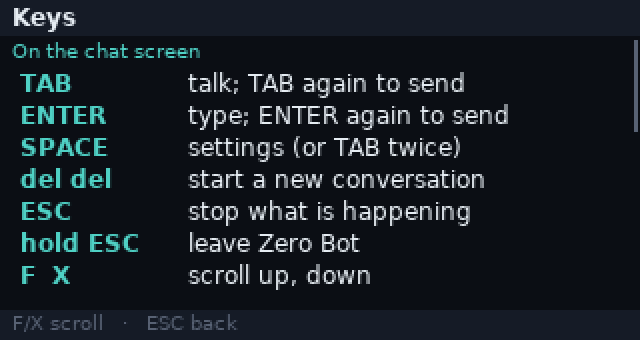
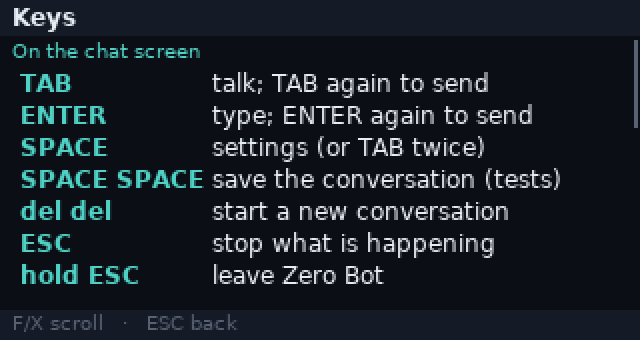
Docs: SPACE SPACE, a "Diagnostics (temporary)" section, pulling saved conversations
README: the keys table lists SPACE twice; the activity log and saved
conversations are described together under "Diagnostics (temporary)" (where
they are, what they hold, that they will be removed); the key guide picture is
the new first page. AGENTS.md section 7: how to pull saved conversations over
ADB and turn one into a test case.

Claude-Session: https://claude.ai/code/session_0145yU8zvCYtBtSJ4SqFXNWu

diff --git a/README.md b/README.md
@@ -47,6 +47,7 @@ needs a [Tavily](https://tavily.com) key.
 |---|---|
 | **TAB** | Start talking. Press **TAB** again when you have finished. |
 | **SPACE** | Open settings (**TAB** twice quickly does the same). **SPACE** or **TAB** closes them again. |
+| **SPACE** twice quickly | Save this conversation, to help diagnose and improve the assistant (see [Diagnostics (temporary)](#diagnostics-temporary)). Because of this, one **SPACE** opens settings a moment later, once no second press has come. |
 | **ENTER** | Start typing a message; **ENTER** again sends it. |
 | **del** twice quickly | Start a new conversation: what was said so far is forgotten. Calendar, timers, reminders and saved memories are kept. |
 | **ESC** | Cancel what is happening: recording, typing, a running request, music. |
@@ -170,7 +171,7 @@ settings from any page.
 |---|---|
 | Assistant | Language, vision, speech-to-text and text-to-speech models; voice; spoken replies on/off; fast replies; the assistant's name |
 | Device | Volume, brightness, microphone gain, time zone, start at power-on, internet via phone, microphone, flip camera image, home city and country, your name, date order, units |
-| Your data | Calendar (edit, add, delete, delete all), reminders and timers (cancel one or all), memory (edit, add, delete, forget everything), TV remote, smart home (devices by room, setting up, the Tapo account), music library, radio stations (what was read from your list, play one to try it), start a new conversation |
+| Your data | Calendar (edit, add, delete, delete all), reminders and timers (cancel one or all), memory (edit, add, delete, forget everything), TV remote, smart home (devices by room, setting up, the Tapo account), music library, radio stations (what was read from your list, play one to try it), saved conversations (how many, delete them all; see [Diagnostics (temporary)](#diagnostics-temporary)), start a new conversation |
 | AI service | Address, API key, web search key, compress audio |
 | About | Status and connection test, the setup guide again, exit to launcher |
 | Keys | Every key and what it does (as **H** shows them) |
@@ -377,16 +378,37 @@ devices, with or without this app.
   only by your user, with what a device needs to be talked to (for Tapo, the account e-mail and a
   SHA-1 of its password). While the assistant may use devices, their names and states are sent
   to your AI service with each request; addresses and account details never are.
-- A log of the tools the assistant used and what they returned is kept in
-  `~/.cache/zero-bot/activity.log` (readable only by your user, about 256 kB at most plus one
-  older file), to help diagnose problems. What you say is not written to it, nor any password or
-  token. Delete it whenever you like.
+- A log of the tools the assistant used, and conversations you choose to save, are kept to help
+  diagnose problems: see [Diagnostics (temporary)](#diagnostics-temporary).
 - What you say, type and photograph is sent to the AI service you configured. Web searches go to
   Tavily; weather, currency and share-price lookups go to Open-Meteo, open.er-api.com and Yahoo
   Finance.
 - Python runs in a [bubblewrap](https://github.com/containers/bubblewrap) sandbox with no
   network, no access to your files, a 20-second limit and a memory cap.
 - Reminders and timers only fire while the app is running.
+
+## Diagnostics (temporary)
+
+Two records exist for now to diagnose problems and improve the assistant. Both will be removed in
+a later version (and their files deleted from the device).
+
+- **The activity log**, `~/.cache/zero-bot/activity.log`: every tool the assistant used, with
+  what it was asked, what came back and how long it took, request by request. It is always kept,
+  readable only by your user, about 256 kB at most plus one older file. What you say is not
+  written to it, nor any password or token. Delete it whenever you like.
+- **Saved conversations**, `~/.local/share/zero-bot/conversations/`: only when you press **SPACE**
+  twice quickly on the chat screen, the conversation so far is saved from its start, as the AI
+  service saw it: what you said (with the time), each reply, and each tool the assistant used,
+  with what it was asked and the start of what came back. One file per save, named by the time
+  (the folder and files readable only by your user); the newest 50 are kept, 4 MB at most. Your
+  API and web-search keys are blanked out of them, and passwords and pairing codes never reach a
+  conversation (they are typed in settings). Your own words are saved as you said them, so save
+  only conversations you are happy to share with whoever looks into a problem.
+  *Settings → Your data → Saved conversations* shows how many there are and deletes them all.
+
+`tests/suite/from_conversation.py FILE` turns a saved conversation into a draft test case for the
+generated request set, for a person to edit (and to replace your own words with others) before
+adding it.
 
 ## Building
 
@@ -430,7 +452,7 @@ A screenless build of the agent, for testing prompts and tools quickly:
 cmake --preset cli && cmake --build --preset cli
 export ZB_API_BASE=https://your-service/v1 ZB_API_KEY=... ZB_SEARCH_KEY=...
 build/cli/zero_bot --ask "what's the weather like in lisbon tomorrow"
-build/cli/zero_bot --chat
+build/cli/zero_bot --chat           # /new starts a new conversation, /save saves it (as SPACE twice does)
 build/cli/zero_bot --tool weather '{"location":"Lisbon"}'
 ```
 
@@ -448,8 +470,8 @@ were called, whether the answers hold up, and how long each took. See the notes 
 the file. `tests/run_unit.sh` builds and runs the tests that need neither a device nor an AI
 service (the smart-home layer, the timers: the timer tool, how timers are stored, the
 countdown and the alarm, the radio: the station file, the radio tool and the check of a stream
-against a pretend radio server, the keys and their guide, and the Fire TV, HomeKit and Hue
-drivers), `tests/tapo_e2e.py` runs the
+against a pretend radio server, the keys and their guide, saved conversations, and the Fire TV,
+HomeKit and Hue drivers), `tests/tapo_e2e.py` runs the
 command-line build against two simulated Tapo plugs, `tests/firetv_e2e.py` and
 `tests/homekit_e2e.py` run those drivers against a simulated TV and a simulated HomeKit bridge,
 `tests/hue_e2e.py` runs the Hue driver and the command-line build against a simulated Hue Bridge, and

diff --git a/AGENTS.md b/AGENTS.md
@@ -75,7 +75,8 @@ State on disk (all under the user's home, mode 0600 where they hold secrets):
 `~/.config/zero-bot/settings.json`, `~/.config/zero-bot/radio.json` (the user's own stations,
 written by hand; the app ships none and never writes it), and in `~/.local/share/zero-bot/`: `calendar.json`,
 `reminders.json` (running timers too, as records with `"kind": "timer"`), `memory.json`,
-`ir_learned.json`, `music_index.json`, `smarthome.json`.
+`ir_learned.json`, `music_index.json`, `smarthome.json`, and `conversations/` (saved with SPACE
+twice; diagnostic, temporary, see section 7).
 
 ## 4. How a request flows
 
@@ -186,8 +187,10 @@ What exists:
   `tests/unit/key_guide_test.cpp` (what each key does on the chat screen, and that the key guide
   says so), `tests/unit/radio_test.cpp` (the station file, names and nicknames, the tool absent
   without stations, the check of a stream against `tests/unit/radio_peer.py`, the player's live
-  mode against a stand-in `ffplay`) and `tests/unit/tools_test.cpp` (the calculator, dates and
-  zones that do not exist, helper programs: cancelling, time limits, no inherited descriptors),
+  mode against a stand-in `ffplay`), `tests/unit/tools_test.cpp` (the calculator, dates and
+  zones that do not exist, helper programs: cancelling, time limits, no inherited descriptors) and
+  `tests/unit/activity_test.cpp` (saved conversations: what a save holds, keys blanked out, size
+  limits, modes, pruning, nothing written unless asked; diagnostic, temporary),
   then, if `build/cli/zero_bot` is built, runs the timer and radio tools through it (`--tool`),
   checks `--prompt`/`--schema` say nothing of radio without stations, and runs the other offline
   tools through `tests/tools_cli.py` (good, wrong and hostile arguments, each in a fresh state
@@ -284,6 +287,16 @@ key, real audio), say so plainly rather than implying it was.
   the journal. `~/.cache/zero-bot/activity.log` on the device (`src/core/activity.cpp`) has every
   tool call with its arguments, result and duration, request by request; read it as root over ADB.
   It holds no words of the user's and no secrets; keep it that way.
+- **Saved conversations**: SPACE twice on the chat screen writes the conversation so far, as the
+  model saw it, to `/home/pi/.local/share/zero-bot/conversations/` (one JSON file per save, named
+  by the time). Pull them as root, check the copy, and keep them out of the repository (they hold
+  the owner's own words):
+  `timeout 60 scripts/adbx pull /home/pi/.local/share/zero-bot/conversations .local-notes/conversations/`,
+  then compare `md5sum` on both sides (`scripts/adbx shell 'md5sum /home/pi/.local/share/zero-bot/conversations/*'`).
+  `tests/suite/from_conversation.py FILE` prints a draft multi-turn case from one; generalise its
+  words (other names, other events) before it goes into `tests/suite/generate.py`.
+  Both records are diagnostic and temporary: `src/core/activity.h` lists every call site, each
+  marked `DIAGNOSTICS (temporary)`, for removing them (ZB-052).
 
 - The device is reached over USB ADB as root: left-side switch on Slave, cable in the
   right-hand USB-C port, ADB enabled in the device's Settings > Developer. Use `scripts/adbx`
